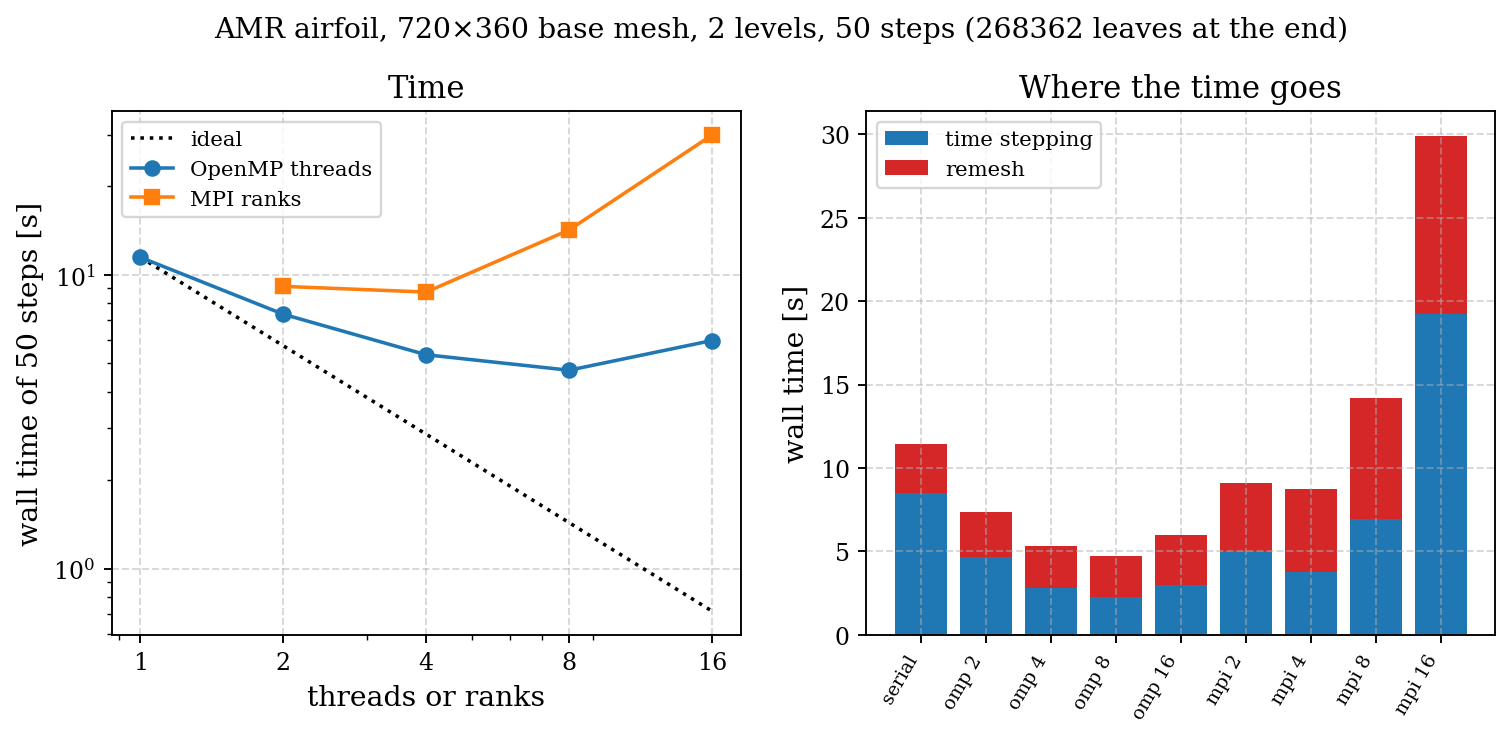
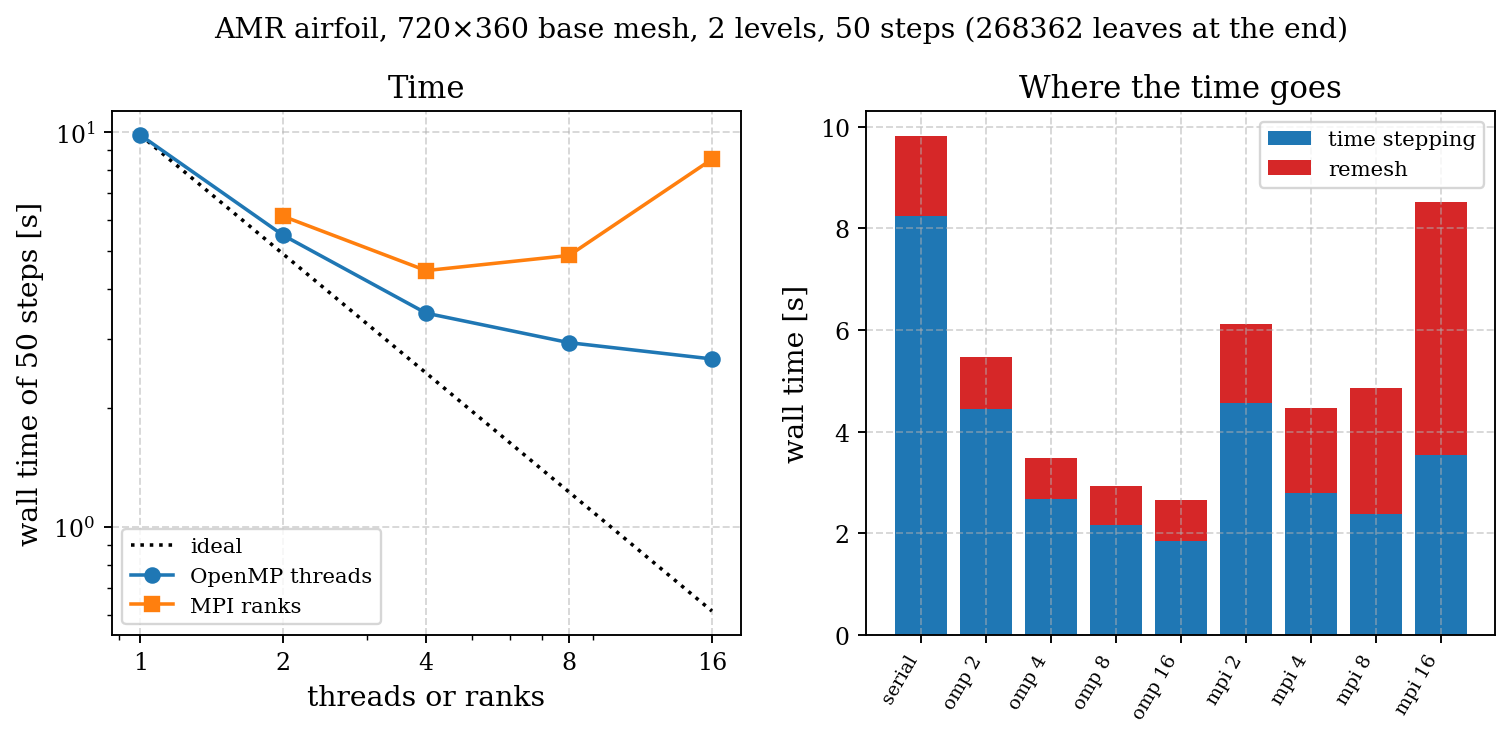
Remesh rework and P8 measurements: docs numbers, design section 20 (accuracy per cost against the patch engine, subtree-ownership balance, open items)

diff --git a/docs/design/amr-cell-based.md b/docs/design/amr-cell-based.md
@@ -1,6 +1,6 @@
 # Cell-based AMR for Fenice: design and plan (branch `amr-cell-based`)
 
-Status: P1-P7 done (P6 = MPI, section 18; P7 = the engine behind the CLI, section 19); P1, P2, P3 done (2026-10-22: `CellMesh` topology, `CellFluxEngine` convective residual, `CellAdvance` subcycling with flux replacement); the user accepted the P2 gate (section 9); P4 done (same day); P5 done (indicator, remesh, initial adaptation; section 13); jump closure (b) and the parent-level join done (sections 14-15), the second-order coarse side (c) is now the default (decision of the user, section 17). The user chose the face-variation indicator as the only one (section 11). Written 2026-10-22 after a review of the source of several adaptive-mesh codes.
+Status: P1-P7 done, remesh speed-up and the P8 measurements in section 20 (P6 = MPI, section 18; P7 = the engine behind the CLI, section 19); P1, P2, P3 done (2026-10-22: `CellMesh` topology, `CellFluxEngine` convective residual, `CellAdvance` subcycling with flux replacement); the user accepted the P2 gate (section 9); P4 done (same day); P5 done (indicator, remesh, initial adaptation; section 13); jump closure (b) and the parent-level join done (sections 14-15), the second-order coarse side (c) is now the default (decision of the user, section 17). The user chose the face-variation indicator as the only one (section 11). Written 2026-10-22 after a review of the source of several adaptive-mesh codes.
 `main` keeps the patch-based AMR (last good state: commit `f257ae1`); this branch replaces it. To go back: `git checkout main`.
 
 ## 1. Why
@@ -559,3 +559,53 @@ refinement follows shocks and contacts tightly without a separate buffer paramet
 * **Real-MPI check**: `amr_mpi.py --check`: dynamic Sod, airfoil, viscous periodic MMS and unsteady MMS, serial and 1-7 ranks, bit for bit.
 * **Scaling with the final code** (`amr_mpi.py`, 720x360, 2 levels, 50 steps, noisy machine): serial 11.5 s (remesh 2.9); OpenMP 2/4/8/16: 7.3/5.3/4.7/6.0 s; MPI 2/4/8/16: 9.1/8.7/14.2/29.9 s (remesh
   4.1/5.0/7.3/10.7). The patch engine's MPI was faster from 4 ranks on. This is the P8 problem and the next piece of work: a distributed or incremental remesh and distributed storage.
+
+## 20. Remesh rework and P8 measurements (2026-10-23)
+Rule of the work: nothing changes the numerics. Oracle = the six AMR references and the 32 others, `amr_mpi.py --check` (1-7 real ranks), and golden dumps of four adaptive cases (dynamic Sod, airfoil with the
+body and the outlet, periodic viscous MMS, unsteady MMS) and of the 720x360 airfoil (268 362 leaves, 8 threads), all bitwise unchanged after every step.
+* **Where the remesh time was** (airfoil 720x360, 2 levels, 50 steps, 10 remeshes, 1 thread, seconds): `CellMesh::rebuild` hash index 0.46 + faces 0.22 + sides 0.07; `adapt` ripple/merge 0.01,
+  new-leaf list 0.04, global sort 0.10; `CellFluxEngine::build` stencils/codes 0.27, solid masks 0.08, `rebuild_lists` 0.74 (a comparison sort of ~4 x faces ints per level); indicator 0.87 (binary
+  search of Morton keys per neighbour); wave-speed bound 0.71 (a full residual).
+* **Changes.** (1) Leaf lookup = a dense table per level when nx_l ny_l <= 4N + 65536, else a binary search of the level's Morton keys (the hash map is gone). (2) `rebuild_lists`: sorted-unique by a
+  mark array instead of std::sort. (3) Indicator: per-cell gather (each cell tests its own four sides, flag is symmetric; diffusion gathered per cell: every addend is the same number, so the sum does not
+  depend on the order; `diffuse_cells`, tested bit for bit against the interface-list rule), per-cell primitives computed once, OpenMP. (4) Faces: count pass + prefix sum + fill pass (parallel, same
+  order). (5) `adapt`: the new list is a merge of three Morton-sorted streams per level (kept / children / parents) holding source indices, the state is written once in parallel. (6) `build`: virtual cells are
+  numbered in creation order, so the leaves with a Finer/Coarser side (and the faces touching them) are visited first, serially, in the original order, and everything else runs in parallel on the finished
+  tables. (7) The wave-speed bound after a remesh is `CellFluxEngine::wave_speed` (the level by level flux pass of the time loop, same value as `residual()`, tested) and runs AFTER `partition()`, so under
+  MPI each rank computes only its own leaves and the maximum is reduced (before, every rank ran a full-mesh residual).
+* **Result** (same study, 10 remeshes; min of 3 on one thread): indicator 0.87 -> 0.28, adapt 0.84 -> 0.39, engine build 0.99 -> 0.47, wave-speed bound 0.71 -> 0.64 (1 thread; 0.15 on 8 threads and ~0.25 on 4 ranks),
+  remesh total 2.9 -> 1.6 s serial, 2.45 -> 0.86 s on 8 threads. `amr_mpi.py` (wall of the 50 steps): serial 11.5 -> 9.8 s; OpenMP 2/4/8/16: 7.3/5.3/4.7/6.0 -> 5.5/3.5/2.9/2.7 s; MPI 2/4/8/16:
+  9.1/8.7/14.2/29.9 -> 6.1/4.5/4.9/8.5 s (speed-ups 1.6 / 2.2 / 2.0 / 1.15). The remesh share is 16 % of the loop on one thread, 26 % on 8 threads, 26-58 % on 2-16 ranks (replicated work on 8-16 processes of an
+  8-core machine contends for memory).
+* **Time stepping is at the kernel limit.** Cost per leaf update 568 ns, the uniform solver's cost per cell 571 ns (same case, 720x360, 1 thread): the face-list engine has no overhead against the uniform
+  kernel. 74 % of the step is the face flux (reconstruction + HLLC), 19 % the cell quantities and the viscous flux. A faster step needs a faster kernel, shared with the uniform solver (SIMD over faces keeps the bits only if every
+  lane runs the same operations; not attempted).
+* **Churn.** Per remesh about 0.13 % of the leaves change (50 steps: 3 256 refined + 274 joins over 10 remeshes of 268 k leaves; the full t = 6 airfoil: 2 651 + 978 over ~200 remeshes of 23.5 k leaves), yet the
+  full topology and stencils are rebuilt each time. An incremental update (dirty leaves = the new ones and their face neighbours, clean faces copied with the leaf index remapped, virtual cells renumbered by
+  key) would take adapt + build from ~0.85 s to an estimated 0.2 s per 10 remeshes; not done (see "Open" below).
+* **Subtree ownership instead of per-level blocks** (what a local remesh with whole base-cell subtrees per rank would imply), measured offline on the final state of the airfoil run (268 362 leaves; levels
+  258 416 / 866 / 9 080), base cells cut along the Morton order into N chunks of equal weighted work (sum of 2^l): balanced weighted work (1.00) but the per-level counts are not: max/mean leaves of level 0 / 1 / 2 =
+  1.15 / 2.0 / 2.0 on 2 ranks, 1.15 / 2.3 / 2.1 on 4, 1.15 / 4.5 / 4.1 on 8, 1.15 / 5.8 / 7.3 on 16. Levels advance one after the other with exchanges, so the time is the sum over levels of the busiest rank:
+  about 1.5x the ideal on 8 ranks for this case (the body and the wake are in a few base cells). The present per-level partition has 1.00 at every level but needs the whole topology on every rank.
+* **Accuracy per cost against the patch engine** (built from `main` f257ae1 in a worktree, same machine, same case "IBM Airfoil AMR", t = 6, rms error of Cd(t), Cl(t) against uniform 768x384 for t >= 1):
+
+  | run | cells at the end | wall [s] | Cd | Cl |
+  |---|---|---|---|---|
+  | uniform 192x96 | 18 432 | 2.5 | 0.034 | 0.36 |
+  | uniform 384x192 | 73 728 | 20.7 | 0.0145 | 0.087 |
+  | patch engine, 16x16 patches | 52 224 | 24.4 | 0.0074 | 0.0387 |
+  | patch engine, 8x8 patches | | 20.3 | 0.0085 | 0.0457 |
+  | cell engine, default (criterion 0.1) | 23 526 | 10.7 | 0.0106 | 0.0541 |
+  | cell engine, criterion 0.01, diffusion 2 | 36 885 | 15.8 | 0.0098 | 0.0502 |
+  | cell engine, criterion 0.01, diffusion 4 | 41 706 | 16.4 | 0.0095 | 0.0486 |
+  | cell engine, criterion 0.005, diffusion 4 | 50 262 | 24.7 | 0.0078 | 0.0411 |
+  | cell engine, criterion 0.002, diffusion 4 | 80 742 | 72.7 | 0.0056 | 0.0301 |
+
+  **At matched error the two engines cost the same on this study** (cell 0.0078 / 0.0411 in 24.7 s against patch 0.0074 / 0.0387 in 24.4 s); the cell engine is cheaper only at the lower accuracies (0.0106 / 0.054 in
+  10.7 s; the patch engine with 8x8 patches, 0.0085 / 0.0457 in 20.3 s, lies between the cell engine's 16.4 s and 24.7 s points). Settings that do not move the error: the body margin (2, 6, 12 cells: identical to 3 digits), the remesh interval (every 2), the thresholds.
+  75 % of the velocity error energy of the default run sits in the finest-level region (2 % of the area): the error is made where the resolution is the same as the reference's, so it is not a matter of covering
+  more area with the finest level at fixed cost. Cost scales with sum n_l 2^l (50 k leaves with 29 k at level 2 cost 3.7x the default's 38.5 k updates, 2.4x its time). The acceptance rule "wall time per accuracy
+  not worse on any study" is therefore met only against the uniform meshes, and met with equality (not better) against the patch engine on the airfoil.
+* **Open.** (a) incremental topology update (estimated -0.6 s of a 1.6 s serial remesh; the wave-speed bound 0.64 s and the indicator 0.28 s remain); (b) distributed storage and a local remesh with ghost layers
+  (needed for a mesh that does not fit one node; the per-level partition must then be kept for the time stepping, so the topology of a rank would be its owned leaves plus the halo of each level and the remesh
+  would exchange flags between neighbouring ranks); (c) a SIMD flux kernel (shared with the uniform solver).

diff --git a/docs/source/modules/AMR.md b/docs/source/modules/AMR.md
@@ -142,17 +142,17 @@ after it advanced, and the registers of the coarse-fine faces. A same-level face
 by the owner of the fine leaf. The result is identical to the serial run for any number of ranks (1 to 7 are checked in
 `amr_mpi.py --check`, on cases with remeshing, an immersed body, viscosity, a non-reflecting outlet and a time-dependent source).
 
-**Known limits.** The remesh (indicator, flags, adaptation, rebuild of the face list) is replicated on every
-rank after the state is gathered, and every rank stores the whole mesh and state array. The remesh is therefore a serial
-fraction of the run (25 to 40 % of the time loop on the airfoil below), the MPI speed-up flattens beyond a few ranks and the
-run gets slower beyond that, and the memory per rank does not fall with the number of ranks. On one node OpenMP is the better choice;
-MPI is correct for any rank count but is not yet a way to run faster.
+**Known limits.** The remesh (indicator, flags, adaptation, rebuild of the face list and stencils) is replicated on every
+rank after the state is gathered, and every rank stores the whole mesh and state array. It runs OpenMP-parallel inside a rank,
+but it is a serial fraction across ranks (16 % of the time loop of the airfoil below on one thread, 25 to 55 % on 2 to 8 ranks),
+so the MPI speed-up flattens at a few ranks, and the memory per rank does not fall with the number of ranks. On one node
+OpenMP is the better choice; MPI gives the same result for any rank count and a moderate speed-up, not a way to store a larger mesh.
 
 | run (720×360, 2 levels, 50 steps, 268 362 leaves) | wall time | of which remesh |
 |---|---:|---:|
-| serial, 1 thread | 11.5 s | 2.9 s |
-| OpenMP, 2 / 4 / 8 / 16 threads | 7.3 / 5.3 / 4.7 / 6.0 s | 2.7 / 2.5 / 2.5 / 3.0 s |
-| MPI, 2 / 4 / 8 / 16 ranks | 9.1 / 8.7 / 14.2 / 29.9 s | 4.1 / 5.0 / 7.3 / 10.7 s |
+| serial, 1 thread | 9.8 s | 1.6 s |
+| OpenMP, 2 / 4 / 8 / 16 threads | 5.5 / 3.5 / 2.9 / 2.7 s | 1.0 / 0.8 / 0.8 / 0.8 s |
+| MPI, 2 / 4 / 8 / 16 ranks | 6.1 / 4.5 / 4.9 / 8.5 s | 1.6 / 1.7 / 2.5 / 5.0 s |
 
 The machine has 8 cores (16 logical processors); the times vary by tens of percent from run to run, and the 16-rank row is oversubscribed.
 

diff --git a/docs/source/cases/airfoil.md b/docs/source/cases/airfoil.md
@@ -66,11 +66,11 @@ uniform 192×96 and 768×384 meshes, and the cost of the three runs on 16 OpenMP
 |---|---:|---:|---:|---:|
 | uniform 192×96 | 18 432 | 2.5 s | 0.034 | 0.36 |
 | uniform 768×384 | 294 912 | 244 s | (reference) | (reference) |
-| AMR, 192×96 + 2 levels | 23 526 | 14 s | 0.011 | 0.054 |
+| AMR, 192×96 + 2 levels | 23 526 | 11 s | 0.011 | 0.054 |
 
 The errors are rms differences of $C_d(t)$ and $C_l(t)$ from the 768×384 run over
 $1 \le t \le 6$ (this is the impulsive start of the flow, not a statistically steady state).
-AMR reproduces the loads of the fine mesh with 8 % of its cells and 6 % of its time. The
+AMR reproduces the loads of the fine mesh with 8 % of its cells and 4 % of its time. The
 base mesh alone misses most of the lift.
 
 ## Using your own airfoil
